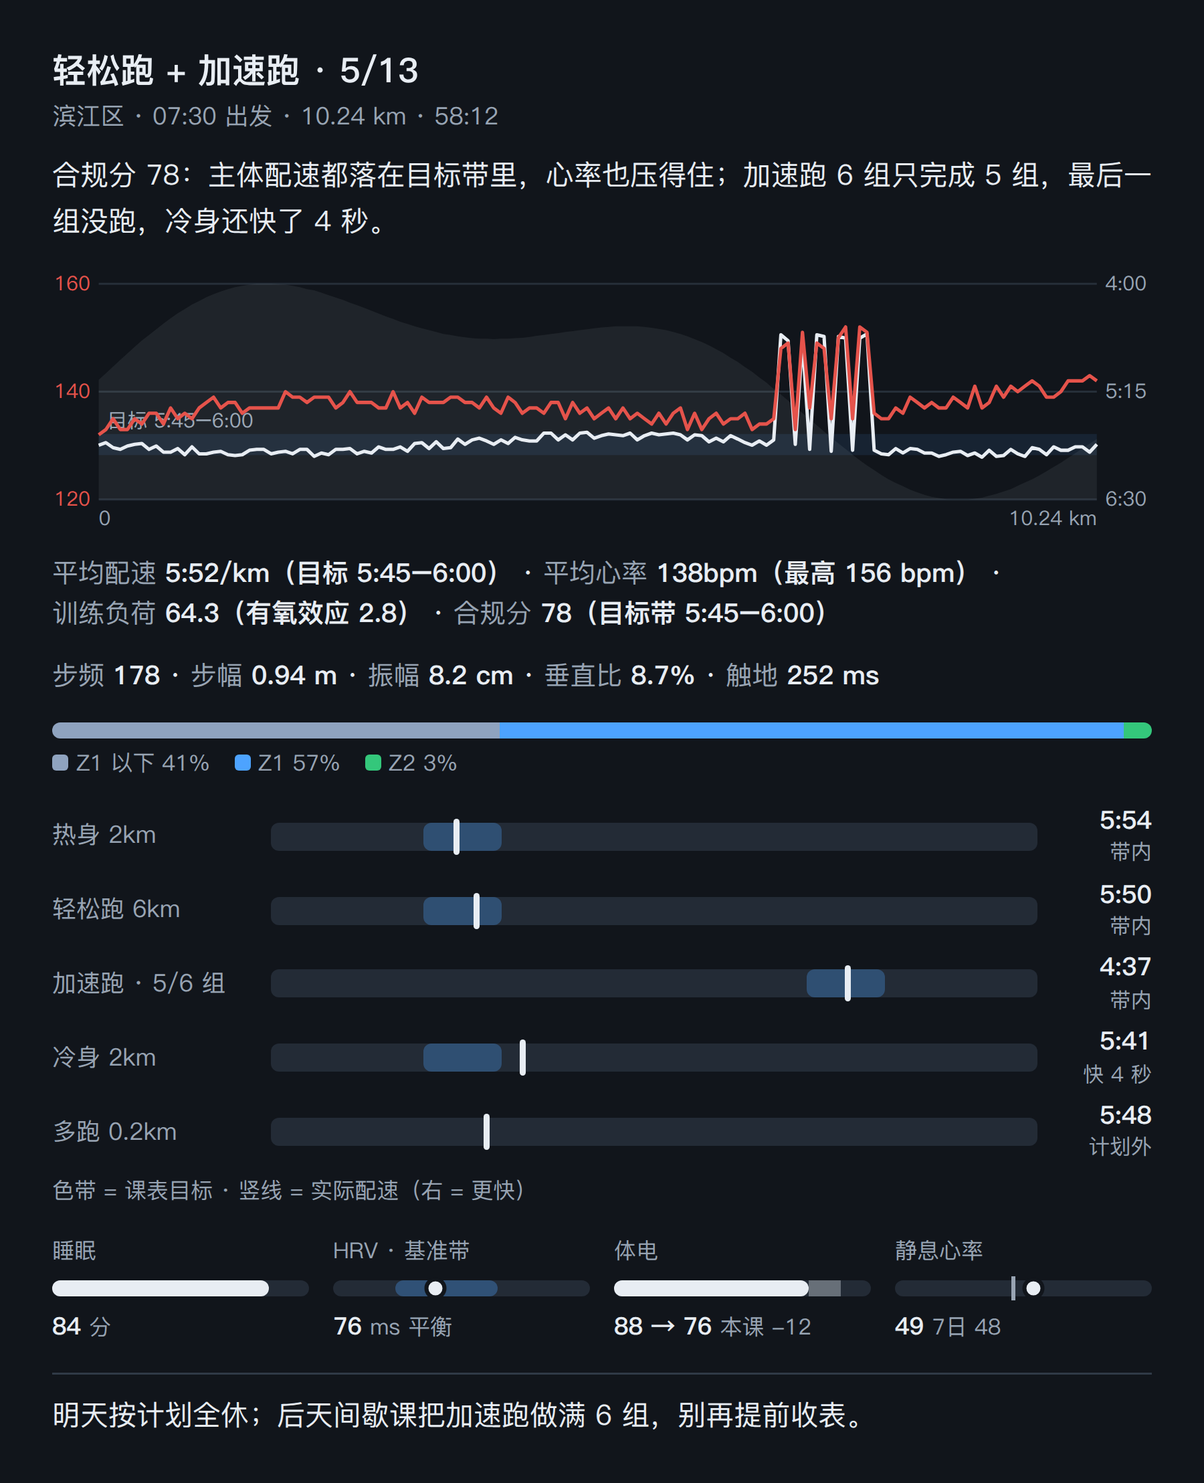
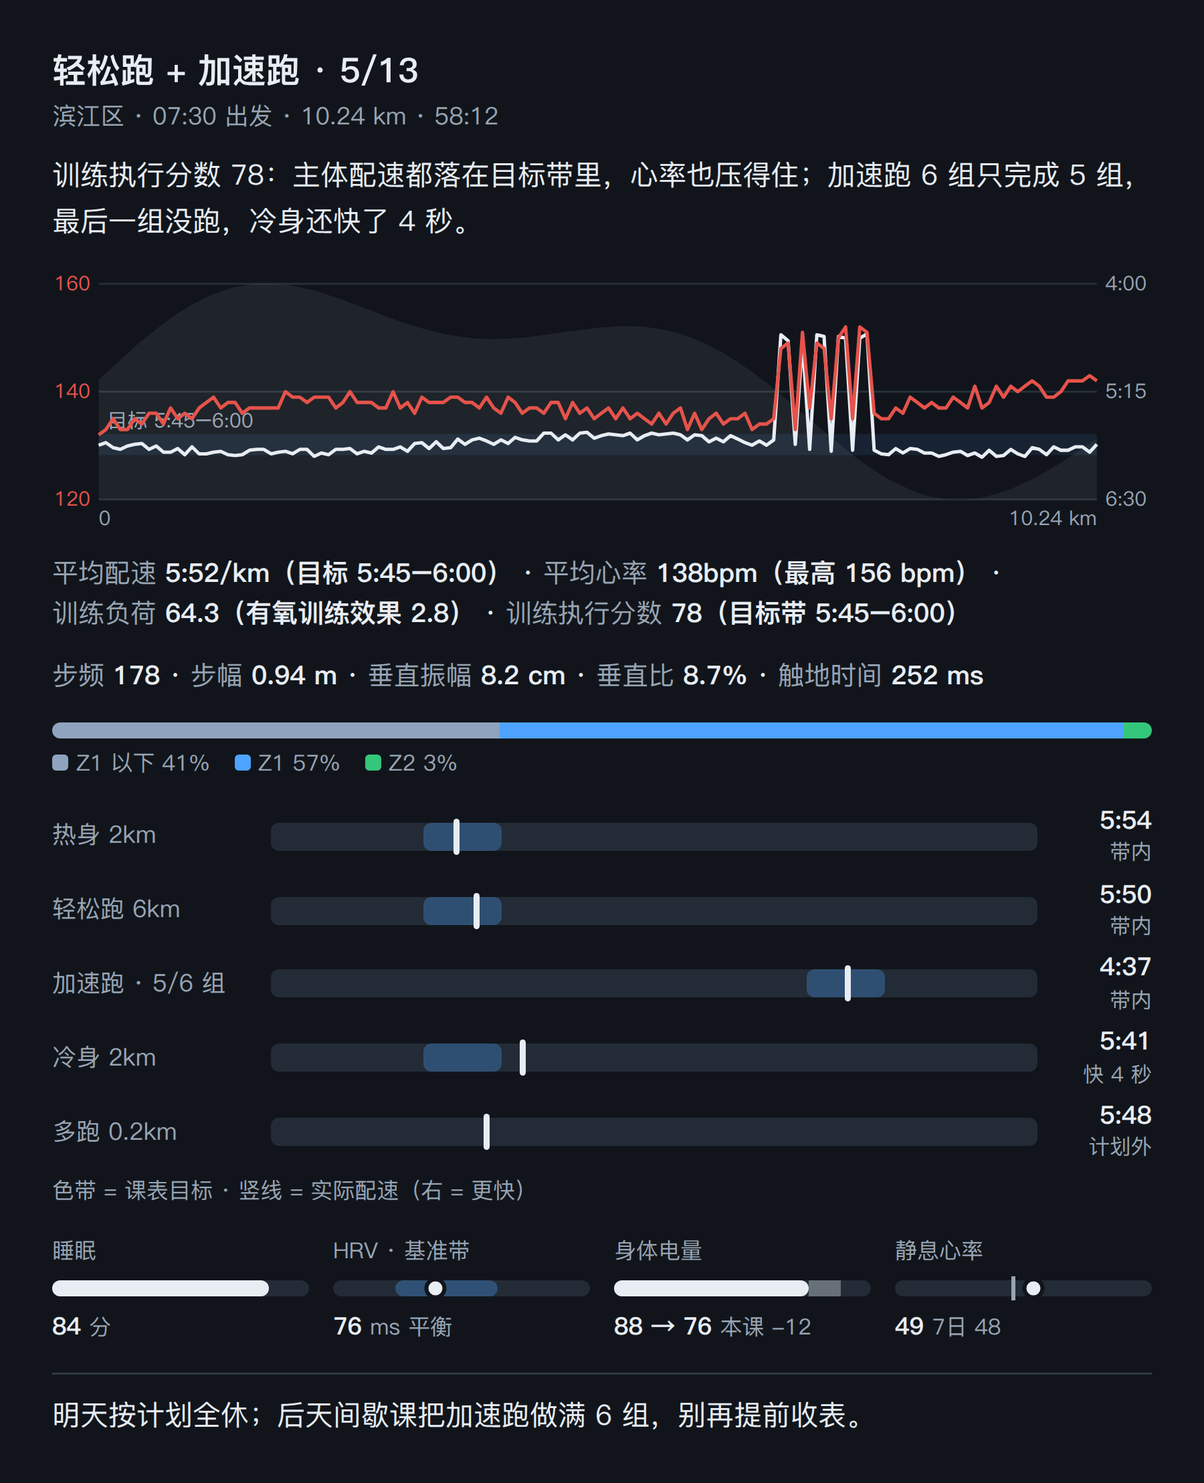
指标名称统一写全称：清除自造简称
- 身体电量（代 体电/Body Battery）、训练执行分数（代 合规分）、有氧训练效果（代 有氧效应）
- 触地时间、坡度调整配速同步改全；示例 JSON 与示例图按新口径重渲

Changed region(s): [[0.0311, 0.0934, 0.9333, 0.1556], [0.2489, 0.4046, 0.8089, 0.4668], [0.4978, 0.8403, 0.5911, 0.8714]]

diff --git a/scripts/render_review.py b/scripts/render_review.py
@@ -359,7 +359,7 @@ def recovery_html(rec):
             dim = (f'<div class="filldim" style="left:{after:.0f}%;width:{-drain:.0f}%"></div>')
             val = f'<b>{wake} → {after}</b> <span class="m">本课 {drain}</span>'
         cells.append(
-            '<div class="cell"><div class="lab">体电</div>'
+            '<div class="cell"><div class="lab">身体电量</div>'
             f'<div class="vis"><div class="fill" style="width:{fill_to:.0f}%"></div>{dim}</div>'
             f'<div class="val">{val}</div></div>')
     rh = rec.get("rhr") or {}
@@ -421,11 +421,11 @@ def render(d):
         if dyn.get("stride_m") is not None:
             pairs.append(("步幅", f'{dyn["stride_m"]} m'))
         if dyn.get("vertical_cm") is not None:
-            pairs.append(("振幅", f'{dyn["vertical_cm"]} cm'))
+            pairs.append(("垂直振幅", f'{dyn["vertical_cm"]} cm'))
         if dyn.get("vertical_ratio") is not None:
             pairs.append(("垂直比", f'{dyn["vertical_ratio"]}%'))
         if dyn.get("gct_ms") is not None:
-            pairs.append(("触地", f'{dyn["gct_ms"]} ms'))
+            pairs.append(("触地时间", f'{dyn["gct_ms"]} ms'))
         line = nums_line(pairs)
         if line:
             h.append(line)
@@ -506,7 +506,7 @@ def render(d):
             st = f'（{esc(morning["hrv_status"])}）' if morning.get("hrv_status") else ""
             items.append(f'HRV {morning["hrv"]} ms{st}')
         if morning.get("bb_wake") is not None:
-            items.append(f'体电 {morning["bb_wake"]}')
+            items.append(f'身体电量 {morning["bb_wake"]}')
         if morning.get("rhr") is not None:
             items.append(f'静息心率 {morning["rhr"]}')
         if items:

diff --git a/post-run-review.md b/post-run-review.md
@@ -22,7 +22,7 @@
      ```
    - **唤醒**：一个每 60 秒跑一次的轻量检测（Muse 的 hook 机制即可）：队列为空就静默；队列非空且内容哈希与上次唤醒不同才唤醒点评 worker；同一哈希 900 秒内不重复唤醒（防 worker 卡住时反复拉起）。检测只读文件、毫秒级返回，不是让 agent 每分钟轮询。
    - **消费**：worker 处理完自己删队列里已读的行、把已点评的活动 id 记进状态文件；处理期间新入队的信号保留。
-2. **数据源脚本**：同播报模板，一个能只读拉活动详情（分圈、课表步骤与目标、合规分、训练负荷/效应、Body Battery 影响、逐点心率/配速/海拔序列、跑步动态）与今早健康数据（睡眠分、HRV 与状态及其基准带上下限、晨起 Body Battery 与本次活动消耗、静息心率与 7 日均值）的脚本，本仓库的 [scripts/pull.py](scripts/pull.py) 是现成实现。
+2. **数据源脚本**：同播报模板，一个能只读拉活动详情（分圈、课表步骤与目标、训练执行分数、训练负荷/效应、身体电量影响、逐点心率/配速/海拔序列、跑步动态）与今早健康数据（睡眠分、HRV 与状态及其基准带上下限、晨起身体电量与本次活动消耗、静息心率与 7 日均值）的脚本，本仓库的 [scripts/pull.py](scripts/pull.py) 是现成实现。
 3. **计划对照（可选）**：点评要对照课表判断执行偏差，计划来源可以是课表平台 API（如 intervals.icu 当天 events）或手表活动里实际挂的课表（数据脚本的 detail.workout）。对照失败不阻断点评，用手表实际课表兜底。
 4. **渲染与投递**：worker 只产出结构化 JSON，渲染由主 agent 用 [scripts/render_review.py](scripts/render_review.py) 完成；投递的形态与兜底规则见文末「投递规范」。图片版用 [scripts/export_review.py](scripts/export_review.py)（与播报共用同一套截图管线与夜间主题）。
 
@@ -51,18 +51,18 @@
    {{数据脚本命令}}
 3. 读 {{工作区路径}}state.json 的 reviewed 字典。候选 = activity_id 不在 reviewed 里、开始时间在过去 36 小时内、且满足以下之一的活动（通常 0–1 个）：type 为 running/trail_running；或 type 为 cycling 且 distance_km > 50。
 4. 逐个候选组织点评内容。
-   跑步/越野跑，先把事实核对清楚：与计划的吻合度（计划对照：{{计划来源}}）；合规分低要能说清低在哪（配速、心率还是时长/距离偏离）；配速结构（分圈，或间歇主体段的总时长/平均心率）；心率（平均/最高，对照区间：{{心率区}}；注意数据源的分区秒数通常只统计 Z1 起的时间，Z1 以下要由总时长减各区之和得到）；代价（训练负荷、Body Battery 影响、今早的睡眠分/HRV 状态/晨起体电/静息心率）。跑步动态在常态（{{跑步动态常态}}）时不提；明显偏离常态、或长距离后段步频掉下来/触地变长时才提。越野跑步频低、含步行段，属正常。
-   骑行，先把事实核对清楚：均速与最高速度、心率分布、训练负荷与训练效应、功率（没有功率计时是手表估算值，点评里要注明、只作大概参考）、总爬升、今早恢复状态。骑行不做课表对照（无合规分、无目标带）。
+   跑步/越野跑，先把事实核对清楚：与计划的吻合度（计划对照：{{计划来源}}）；训练执行分数低要能说清低在哪（配速、心率还是时长/距离偏离）；配速结构（分圈，或间歇主体段的总时长/平均心率）；心率（平均/最高，对照区间：{{心率区}}；注意数据源的分区秒数通常只统计 Z1 起的时间，Z1 以下要由总时长减各区之和得到）；代价（训练负荷、身体电量影响、今早的睡眠分/HRV 状态/晨起身体电量/静息心率）。跑步动态在常态（{{跑步动态常态}}）时不提；明显偏离常态、或长距离后段步频掉下来/触地时间变长时才提。越野跑步频低、含步行段，属正常。
+   骑行，先把事实核对清楚：均速与最高速度、心率分布、训练负荷与训练效应、功率（没有功率计时是手表估算值，点评里要注明、只作大概参考）、总爬升、今早恢复状态。骑行不做课表对照（无训练执行分数、无目标带）。
    文案要求（重要）：说具体的事和数，平实，像教练当面说话。不要用「不是 X，是 Y」的句式，不要格言式、金句式收尾，不要用破折号造势，不要把点评切成带标签的模板段落，不要夸大语气。结论先行，一句是一句。
    版式口径（图主导，2026-10-23 定版）：点评分两种版式。普通版式（普通训练、自由跑、骑行）：文字只写 lead + takeaway 两句，**不写 comments、不写 morning**——执行偏差写进 vs_bars、今早状态写进 recovery，文字不复述图里已有的数字。比赛版式（≥50km 或活动名/备注表明是比赛）：保留 comments 段落（3–4 段）、structure 与 morning，不写 vs_bars / recovery。渲染端在 JSON 出现 vs_bars 或 recovery 时自动不渲染 comments 与 morning 文本行，文字预算由字段保证。
 5. 把点评写成结构化 JSON，覆盖写入 {{工作区路径}}last_review.json（主 agent 用 render_review.py 渲染成点评卡投递；字段缺失会被自动跳过，有多少写多少）：
    - title（如「恢复跑 · 10/23」）、subtitle（地点 · 出发时间）、distance_km、duration（如「1:06:48」）
-   - lead：一句话结论，写清最关键的事实（如「配速 5:52/km，比课表目标快 13 秒，距离多出 0.4 km。合规分 58，扣分主要在这里。」）
+   - lead：一句话结论，写清最关键的事实（如「配速 5:52/km，比课表目标快 13 秒，距离多出 0.4 km。训练执行分数 58，扣分主要在这里。」）
    - chart：跑步/越野跑用 {hr, pace_min_km, elevation_m}，骑行用 {hr, speed_kmh, elevation_m}（图右轴是速度 km/h）；都原样复制该活动的逐点序列字段（已降采样、已平滑）；没有序列就省略。
    - target_pace（仅跑步）：{lo, hi}（min/km 小数，lo 为快沿、hi 为慢沿），取课表主体步的目标配速（间歇课取主体步，匀速课取该步），图上画成课表目标带；没有课表就省略。
    - vs_bars（仅普通版式的跑步）：[{label, target: {lo, hi} | null, actual}]。课表步与分圈按出现顺序配对，label 用段名+距离；重复组合并成一行并在 label 标完成进度（如「加速跑 · 1/6 组」，actual 取已完成圈平均配速）；课表之外的多余距离单独一行（target null）；无课表（自由跑）写 []，不要硬凑。
-   - recovery（仅普通版式）：{sleep_score, hrv: {value, base_lo, base_hi, status}, bb: {wake, drain}, rhr: {value, avg7}}，由今早健康数据组装（bb.drain = 本次活动的 Body Battery 影响，负数原样）；缺哪项省哪项。
-   - stats：四项 [{label, value, unit?, note?}]。跑步顺序固定——平均配速（note 写目标配速；越野跑 note 写坡度配速）、平均心率（note 写最高心率）、训练负荷（note 写有氧效应，保留一位小数）、合规分（note 写目标带；无合规分时换成总爬升）。骑行顺序——平均速度（unit km/h，note 写最高速度）、平均心率（note 写最高心率）、训练负荷（note 写有氧效应）、总爬升（unit m）。不要给数值配颜色。
+   - recovery（仅普通版式）：{sleep_score, hrv: {value, base_lo, base_hi, status}, bb: {wake, drain}, rhr: {value, avg7}}，由今早健康数据组装（bb.drain = 本次活动的身体电量影响，负数原样）；缺哪项省哪项。
+   - stats：四项 [{label, value, unit?, note?}]。跑步顺序固定——平均配速（note 写目标配速；越野跑 note 写坡度配速）、平均心率（note 写最高心率）、训练负荷（note 写有氧训练效果，保留一位小数）、训练执行分数（note 写目标带；无训练执行分数时换成总爬升）。骑行顺序——平均速度（unit km/h，note 写最高速度）、平均心率（note 写最高心率）、训练负荷（note 写有氧训练效果）、总爬升（unit m）。不要给数值配颜色。
    - dynamics（仅跑步）：{cadence, stride_m, vertical_cm, vertical_ratio, gct_ms}，取自活动详情的跑步动态，没有就省略。
    - extra_line（仅骑行）：[{k, v}]，有功率数据时写平均功率与标准化功率，没有就省略。
    - structure：仅间歇课和比赛（跑步 ≥50km）才写，并同时加 "show_structure": true；普通匀速跑和骑行省略（曲线图已经表达了结构）。内容 [{label, duration, pace, target（该段目标带字符串，没有就省略）, avg_hr, cadence}]，间歇课用「热身/主体/冷身」标注。
@@ -85,7 +85,7 @@
 - 纵轴不许用数据 min-max 拉伸：心率轴按 10 bpm 取整留 20% 边距，配速轴按 15 秒取整留 30% 边距，速度轴按 5 km/h 取整——否则平坦的恢复跑看起来像过山车。
 - 课表目标带画进图里（半透明带 + 左端标签），结构段行也带各自目标。
 - 执行对照条（普通版式）：每段课表一条横条，色带 = 目标、竖线 = 实际，共用一条按 15 秒取整的配速标尺、右端为快；右侧数值列标注与最近带沿的偏差（带内 / 快 N 秒 / 慢 N 秒 / 计划外），条下附一行图例。
-- 恢复仪表条（普通版式）：四格迷你仪表——睡眠 0–100 填充条；HRV 圆点落在基准带上（与播报的 HRV 图同一视觉语言）；体电条实色 = 本课后剩余、淡色段 = 本课消耗；静息心率点与 7 日均值刻度并排。
+- 恢复仪表条（普通版式）：四格迷你仪表——睡眠 0–100 填充条；HRV 圆点落在基准带上（与播报的 HRV 图同一视觉语言）；身体电量条实色 = 本课后剩余、淡色段 = 本课消耗；静息心率点与 7 日均值刻度并排。
 - 颜色语义（图片版色板「冷石板蓝」）：底 #11151b，强调蓝 #4da3ff——与心率区间条的 Z1 同色，蓝色统一承担「目标 / 基准」这类参照语义（目标带、对照条色带、HRV 基准带都是它）；心率线 #e5534b（Z5 红系），红色只给心率；实际数据一律用正文白。换掉暖橙的直接原因：橙色在深底上低透明度发闷发棕，目标带几乎读不出来。
 - 心率区间条用设备官方的区间配色（这是信息色，不是装饰色）。
 - 数据项整体不拆行（每项 nowrap），只在项与项之间换行；正文段落（导语、点评、收尾）两端对齐，数据行/标题/短信息行不对齐。

diff --git a/daily-training-brief.md b/daily-training-brief.md
@@ -12,7 +12,7 @@
 
 ## 搭建前置
 
-1. **数据源脚本**：一个能只读拉取运动与健康数据的脚本（本模板以 Garmin 为例，需要活动、睡眠、静息心率、夜间 HRV、Body Battery、日间压力）。本仓库的 [scripts/pull.py](scripts/pull.py) 就是这样一个实现可直接用：它依赖 [garmin2coros](https://github.com/yihouzenmeban/garmin2coros) 项目的账号配置（Garmin Personal API key）与 garth 后端——Personal API 拉活动/健康数据，分圈与睡眠阶段时间线这两样 Personal API 没有的走 garth。换成其他数据源（COROS、Apple Health 等）时，只需替换这个脚本并改第 2 步的字段口径。
+1. **数据源脚本**：一个能只读拉取运动与健康数据的脚本（本模板以 Garmin 为例，需要活动、睡眠、静息心率、夜间 HRV、身体电量（Body Battery）、日间压力）。本仓库的 [scripts/pull.py](scripts/pull.py) 就是这样一个实现可直接用：它依赖 [garmin2coros](https://github.com/yihouzenmeban/garmin2coros) 项目的账号配置（Garmin Personal API key）与 garth 后端——Personal API 拉活动/健康数据，分圈与睡眠阶段时间线这两样 Personal API 没有的走 garth。换成其他数据源（COROS、Apple Health 等）时，只需替换这个脚本并改第 2 步的字段口径。
 2. **天气源**：任意能查逐日 + 逐小时预报的天气工具，本模板以和风天气（QWeather）为例；本仓库的 [scripts/qw.py](scripts/qw.py) 是现成实现（key 走 Muse 连接器/vault，脚本本身不见 key）。（作者另有一个用 open-meteo 给 Strava 活动补天气的开源项目 [update-strava-weather](https://github.com/yihouzenmeban/update-strava-weather)，天气获取与历史回填的思路可参考，但它用的不是和风接口。）
 3. **intervals.icu 账号**（可选）：API Key 用于把确认后的课表写入日历，写入脚本见 [scripts/push_workout.py](scripts/push_workout.py)；不用它就删掉第 6 步的写入提案部分。
 4. **渲染管线**（可选）：本模板让任务产出结构化 JSON、再由渲染脚本生成图片播报（夜间模式卡片）；本仓库的 [scripts/render_brief.py](scripts/render_brief.py) + [scripts/export_brief.py](scripts/export_brief.py) + [scripts/export_shot.js](scripts/export_shot.js) 是完整管线。不需要图片时，把第 5 步改成直接产出文字播报即可，JSON 字段规范可整段删除。
@@ -54,20 +54,20 @@
    {{数据脚本命令}}
    口径（重要，勿搞错）：
    - 按日期字段匹配每天的睡眠数据，不要假设数组顺序。某天的睡眠是「在该天早上结束的那晚」：今晚播报的「昨晚」= 日期等于今天的那条。
-   - 昨晚恢复：睡眠（时长、分数、深睡/REM 秒数、静息心率、夜间平均 HRV、Body Battery 变化）+ 今日日间压力值。
+   - 昨晚恢复：睡眠（时长、分数、深睡/REM 秒数、静息心率、夜间平均 HRV、身体电量变化）+ 今日日间压力值。
    - HRV 图（佳明式散点）：图上的点是每晚的**单夜** HRV，取最近 7 晚（按日期正序）的单夜值与每天的 HRV 状态。基准带用设备官方基线（如 balanced 区间的 low/high），不要自算均值±SD。
    - 睡眠图：昨晚的睡眠阶段时间线（深睡/浅睡/REM/清醒的时间正序分段）+ 入睡/起床时刻；叠加整晚 HRV 逐点曲线与整晚心率逐点曲线，共用时间轴。某项逐点数据缺失时，图里留空并在汇报里注明，不得编造分布。
    - 训练负荷只作内部监控、不上播报卡：用数据源的官方负荷值判断减量节奏（近 7 天总量 vs 此前 28 天日均），禁止用时长×训练效果自算。
    - 今日活动：取今天的跑步活动（名称、距离、配速、平均心率、训练负荷、训练效果）。
    - 输出很大，只取关键字段；经纬度/位置不写入任何文件或消息。
-3. 按社区通行口径评估恢复（相对基线看偏移）：静息心率高于 7 日均 ≥3–5、HRV 明显低于常态或掉出官方基准带、夜间 Body Battery 变化偏小、睡眠分数低、今日压力偏高——命中越多安排越保守。没有可用接口的指标（如 Training Status / Training Readiness）不要编造。
+3. 按社区通行口径评估恢复（相对基线看偏移）：静息心率高于 7 日均 ≥3–5、HRV 明显低于常态或掉出官方基准带、夜间身体电量回升偏小、睡眠分数低、今日压力偏高——命中越多安排越保守。没有可用接口的指标（如 Training Status / Training Readiness）不要编造。
 4. 天气与动态调换：用 {{天气工具}} 看未来 4–5 天逐日 + 次日逐小时天气，结合跑步习惯（{{习惯窗口}}）、备赛计划（固定节点不可移动）、今天恢复数据判断；某天窗口有雨而前后有好天时，直接建议整体调换课表日期（恢复跑优先调换，强度课/长距离给半句依据），不要等当天早上才临时调整。
 5. 产出结构化 JSON 并写入 {{工作区路径}}brief-latest.json（覆盖旧文件）。字段规范（渲染脚本按此渲染，字段名勿改）：
    - date_label："5月13日 · 周三 · 深度减量期"格式（日期 · 周几 · 当前阶段）。
    - countdown：{"n": 距比赛日的天数, "unit": "天", "label": "距目标赛事"}。
    - verdict_html：一到两句结论，平实具体、带关键数字，首句结论用 <b>...</b> 加粗。禁用模板腔：不要「不是 X，是 Y」、不要格言式收尾、不要破折号造势。
    - plan：数组，首行是今天（实际活动事实：title 如「恢复跑 <b>9.60</b> km」，detail 写「配速 X · 平均心率 N · 负荷 N · 课表 Xkm 已完成」；今天没跑则写休息/无训练），其后是接下来 4 天的安排（title 课目，detail 一行细节）。比赛行 race=true。sub 为「周四 · 今天」「周五」等。
-   - stats：固定 4 格：①昨晚睡眠时长 + 睡眠分数 ②静息心率（注明基线；明显偏离 7 日均时改为与 7 日均对比）③Body Battery 夜间变化（带 + 号）④今日压力（注明 很低/正常/偏高）。
+   - stats：固定 4 格：①昨晚睡眠时长 + 睡眠分数 ②静息心率（注明基线；明显偏离 7 日均时改为与 7 日均对比）③身体电量夜间变化（带 + 号）④今日压力（注明 很低/正常/偏高）。
    - sleep_chart：{start/end: 入睡/起床时刻, segments: 睡眠阶段分段原样, hrv_readings: 整晚 HRV 逐点原样, hrv_avg: 昨晚平均 HRV（整数）, hr_readings: 整晚心率逐点原样, hr_avg: 整晚心率均值（整数）, legend: 各阶段总时长标签（深睡/浅睡/REM/清醒顺序，总时长为 0 的阶段省略）}。（版式参数——阶段配色、曲线粗细透明度等——由渲染脚本固定，此处给一组实测可用的参考值：深睡 #3971c1 / 浅睡 #69a3ed / REM #bc40b3 / 清醒 #d67ec8；心率线 #e53935；叠加曲线宽 0.8–0.9、不透明度 0.6–0.65；全图其余部分只用墨色灰阶 + 一个橙色强调色。双图版式：睡眠图在左、HRV 图在右，两图的文字描述都放在图下方、底部对齐，两格描述行数不同时用图与描述之间的弹性间隔补齐；结论句与页脚天气文字两端对齐。）
    - hrv：{label: "夜间 HRV · 昨晚"（必须标「昨晚」：value 是昨晚单夜值，标签写「近 7 晚」会与数值连读成 7 晚均值、有歧义）, value: 昨晚单夜值（字符串）, unit: "ms", values: 最近 7 晚单夜值正序数组, statuses: 对应 7 晚状态正序数组, band: [官方基线 balanced_low, balanced_high], low_upper: 官方基线 low 上限, dates: 对应 7 晚的 "M/D" 正序数组}。（点的形状按状态画：平衡=圆、不平衡=方、低=三角；颜色按数值与基准带关系：带内绿 #428947、带下橙 #d27034、低于 low 红 #b94038；纵轴按数据范围小留白取整到 10。描述区：标签与数值同字号、数值仅加粗不用大字号；渲染脚本在描述行下方另起一行小字「近 7 晚 min–max · 基准带 lo–hi」，由 values/band 派生。）
    - weather：一行，以「天气：」开头，写明未来几天跑步窗口的降水结论与是否调换日期。
